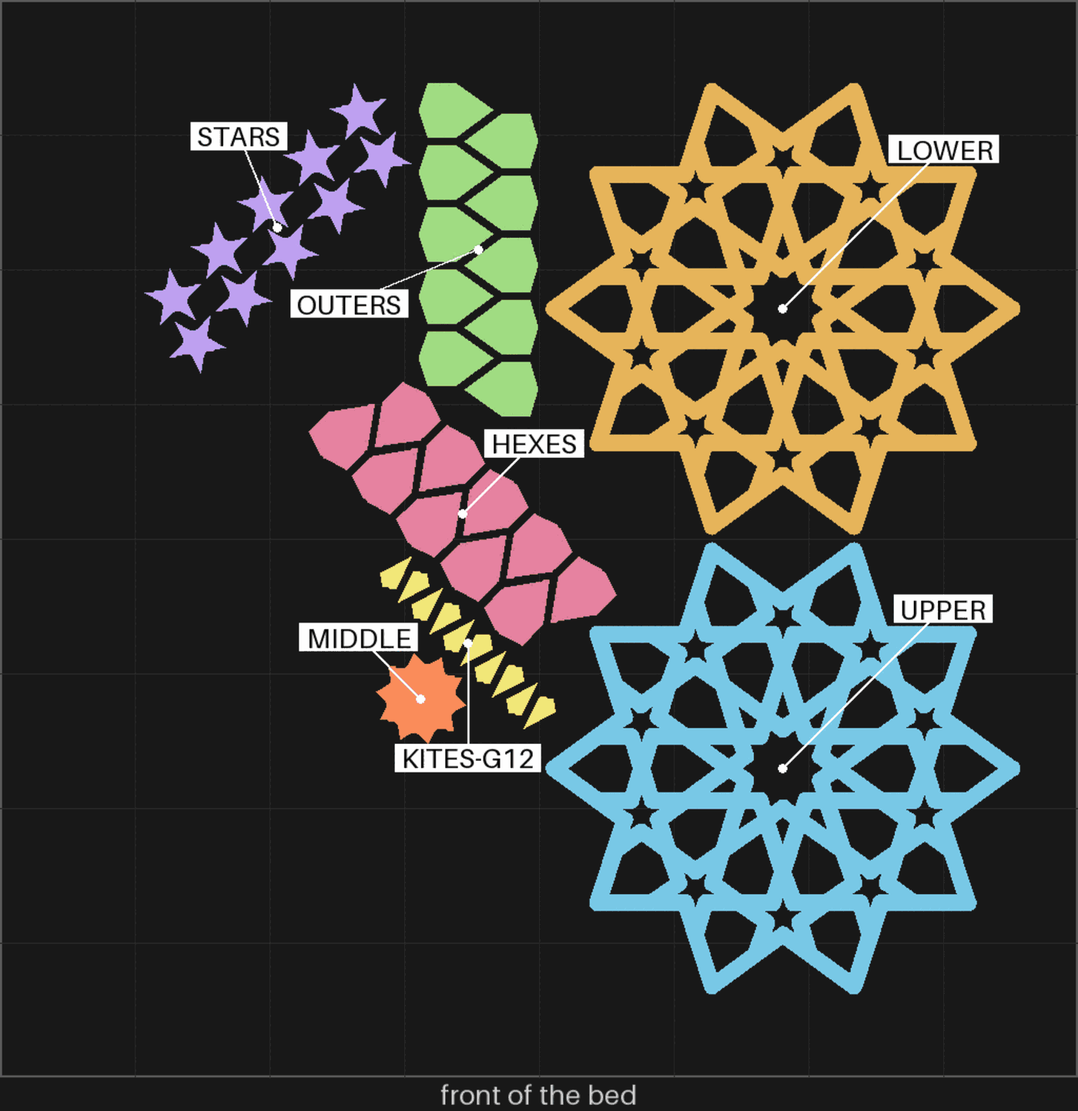
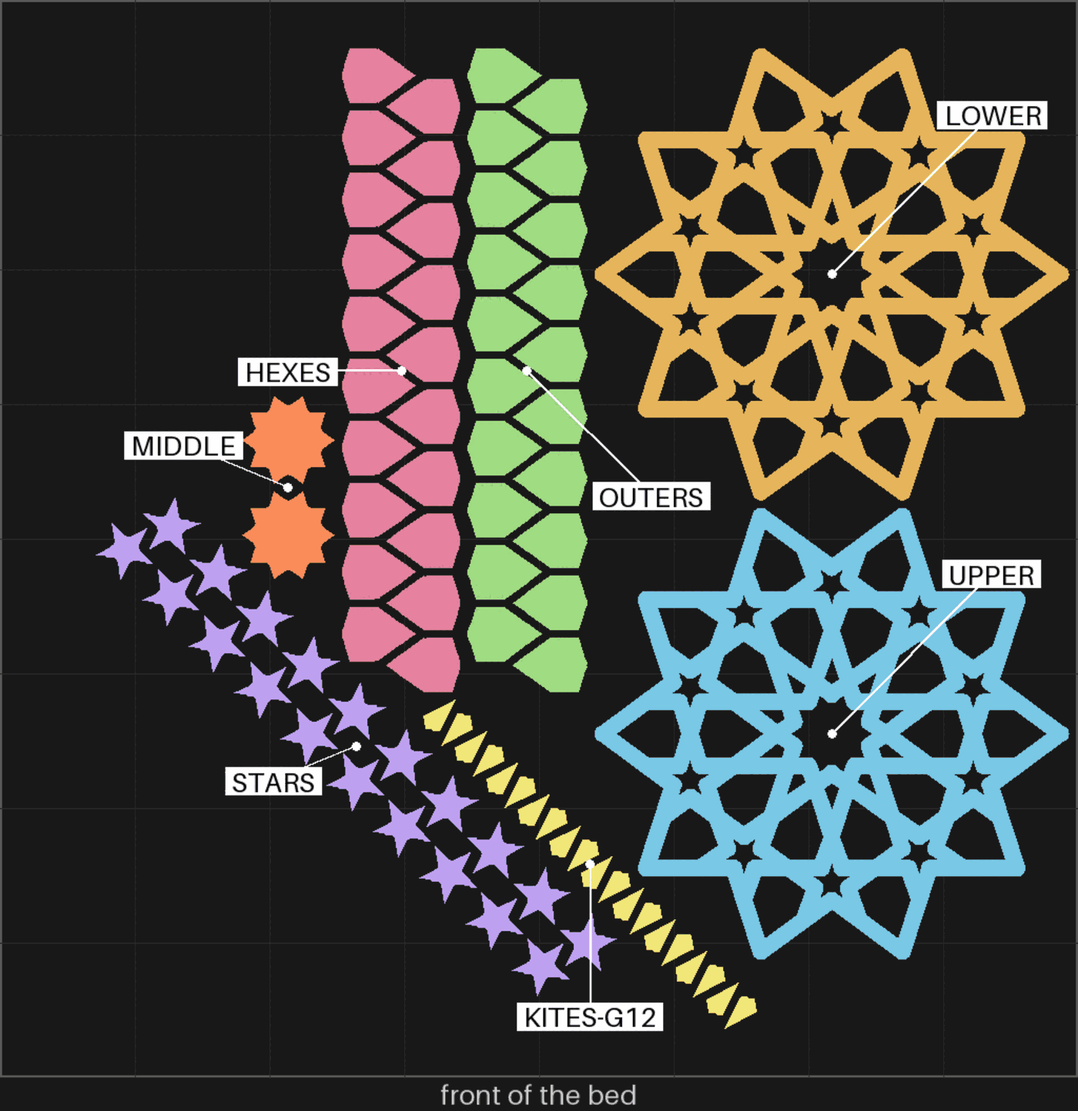
split-07: every loose piece cut in two and joined, pins and a slide (iteration 3, D-120) (#793)
Each loose piece is cut at its middle and prints as two face-down halves.
Pins join the middle, kites and stars; a 4 mm slide joins the hexagons and
outer pieces. Sliced at 8231 s and 36.49 g. The page, the bed and ledge
pictures, and the task lists follow. Waits on Omar's yes and color.

Claude-Session: https://claude.ai/code/session_01WeTHrCWsKa9pjDBJpfTez7

diff --git a/docs/design/plates/split-07.md b/docs/design/plates/split-07.md
@@ -1,19 +1,20 @@
 ---
 plate: split-07
 recipe: split-07.yaml
-iteration: 2
+iteration: 3
 stage: proposed
 times_printed: 0
 runs: []
-answers: "Does the whole flange coaster, with split-06's 40 pins where they stand and a 0.7 mm wall round each pin socket (split-06 had 0.9 mm), keep its hex and outer pieces snug, close flush all the way round and hold together, so it is a coaster to keep?"
+answers: "Cut in two at its middle and printed face down, does every loose piece of the flange coaster come out with two bed faces, join back into one piece (pins on the kite, star and middle, a slide on the hexagons and outer pieces), and still fit the coaster, which now has a 0.7 mm wall round each pin socket, snug and flush?"
 kind: new
 maturity: experiment
 bets: []
 unblocks:
+  - "D-120: cut pieces with pins and a slide, kept or changed on these pieces in hand"
   - "D-119: the flange coaster's socket wall is 0.7 mm (its reversal, if the whole coaster shakes or cracks)"
   - "the flange coaster as a production plate (D-098: one run kept as laid out)"
-minutes: 113
-grams: 31
+minutes: 137
+grams: 36
 bed_plates: 1
 risk: watch
 pictures:
@@ -22,78 +23,96 @@ pictures:
   - split-07-media/ledges.png
 ---
 
-# split-07 — the whole flange coaster with a 0.7 mm socket wall
+# split-07 — the whole flange coaster, every loose piece cut in two and joined
 
 ![The whole lower half of the flange coaster from above, grey, with its 40 pins of 1.2 mm as white squares in four rings of ten: round the middle star, between the bigger kites, between the stars, and on the outer points](split-07-media/pins.png)
 
-**In short.** On [split-08](split-08.md) you tried three walls round each pin's socket and said "the
-middle one was the best one, 1c i think" and "left ond did (1a shook)". So the 0.9 mm wall that
-[split-06](split-06.md) printed shook, and 0.7 mm was the best
+**In short.** You picked "Cut them, wait for the slide"
+([D-120](../../working-model/decisions-log.md#d-120--cut-pieces-the-cut-and-the-joins-on-one-plate)).
+So every loose piece on this plate is cut in two at its middle, and each half prints face down.
+Both faces of every piece are then bed faces, the smooth side, with no last layer on show. The
+two halves join back into one piece: with pins on the kites, stars and middle piece, and with a
+slide (a dovetail rail that slides into a slot) on the hexagons and outer pieces. The coaster
+round them is the one you picked on [split-08](split-08.md): a 0.7 mm wall round each pin socket
 ([D-119](../../working-model/decisions-log.md#d-119--the-flange-coasters-socket-wall-is-07-mm)).
-This plate is split-06 again, the whole coaster with no labels, with that wall, and one ring of pins
-moved 1.3 mm in so it no longer sits on the hex pieces' points. The plate is
-[`split-07.yaml`](split-07.yaml).
+The plate is [`split-07.yaml`](split-07.yaml).
 
 ## What it is
 
-The whole flange coaster at 112.5 mm, as split-06: a lower half, an upper half, the middle piece,
-and every kite, hex piece, star and outer piece.
+The whole flange coaster at 112.5 mm: a lower half, an upper half, and every loose piece, each
+loose piece now in two halves.
 
 | | split-06 | split-07 |
 |---|---|---|
+| Loose pieces | whole, 4.4 mm tall, one bed face | **cut in two, 2.2 mm halves, both printed face down** |
+| Joins between the halves | none | **pins on the kites, stars and middle; a slide on the hexagons and outer pieces** |
 | Wall round each pin socket | 0.9 mm | **0.7 mm** |
-| Disc round each pin (radius) | 1.625 mm | **1.425 mm** |
-| Pins | 40, 1.2 mm, 0.25 mm play, in four rings | the same, the inner ring at 13.0 mm, not 14.3 |
+| Pins between the coaster's halves | 40, 1.2 mm, 0.25 mm play, in four rings | the same, the inner ring at 13.0 mm, not 14.3 |
 | Piece gap | 0.10 mm, kites 0.12 | the same |
 | Labels | none | none |
 
-- **The pins stand where split-06's stand, but for the inner ring**: rings at 13.0, 25.1, 33.5
-  and 54.4 mm, ten in each. The inner ring was at 14.3 mm, where the disc round each pin sat on
-  the point of a hex piece. bikar refuses that for the cut pieces you picked (cut pieces with pins
-  and slides, [D-120](../../working-model/decisions-log.md)), because a point is too thin to lose
-  its ledge. At 13.0 mm the ring is clear of the points with 0.3 mm to spare.
-- **The disc still bites the hex pieces' blunt end, but nothing else.** Each hex piece's point now
-  keeps its whole 0.80 mm ledge (it kept 0.37 before the ring moved, and 0.17 on split-06). The
-  blunt end keeps 0.45 mm, as on split-08's 0.7 mm set. The recipe says the bite is by design, so
-  the send's ledge check lets it through.
+How each piece kind is joined, as the [joins design](../coaster/cut-pieces-joins-design.md#42-plate-two-the-joins)
+lays them out:
+
+| Pieces | Join | Why this one |
+|---|---|---|
+| The middle piece | three 1.2 mm pins, 0.25 mm play | its outline turns inward, so the slide will not run on it |
+| Each kite | one 1.2 mm pin, a little toward its blunt end | too narrow for a slide, and only one pin fits |
+| Each star | one 1.2 mm pin, at its middle | its arms turn inward, so no slide |
+| Each hexagon and outer piece | a 4 mm dovetail rail on one half, a slot in the other, 0.15 mm a side, 0.8 mm tall | wide and straight enough for SLD-1's rail, the slide you printed on sld-1 |
+
+![Three side views. 1: today's whole piece; its bottom face is a first layer and its top face the last layer. 2: the same piece cut at its middle into two halves. 3: both halves printed face down.](../coaster/cut-pieces-joins-media/cut-piece.png)
+
+![Two side views of the small kite: the two halves closed on a 1.2 mm pin, and both halves printed face down, the pin standing on one and the hole open on the other](../coaster/cut-pieces-joins-media/kite-pin.png)
+
+![Side views of the hexagon's slide. The first is the rail this plate uses: along the slot, the slot half printed face down, its 1.0 mm slot leaving 0.5 mm of band over air at both ends](../coaster/cut-pieces-joins-media/hex-slide.png)
+
+- **One coaster's worth, one join per piece kind.** The design's extra rows (a second pin play
+  of 0.30 mm, a lower 0.6 mm rail, the other slide gaps) are not on this bed: you picked one
+  plate, and this is the coaster as it would be kept.
+- **The pins between the coaster's halves stand where split-06's stand, but for the inner ring**:
+  rings at 13.0, 25.1, 33.5 and 54.4 mm, ten in each. At 14.3 mm the disc round each pin sat on
+  a hex piece's point, and bikar refuses to cut a piece there, because a point is too thin to
+  lose its ledge. At 13.0 mm it is clear with 0.3 mm to spare.
 - Setting 8 on every piece, room 0.2, bosses on: all as split-06.
 
 **The color is picked at the send**: say it with the yes.
 
 **What I assumed, for you to change:**
 
-- **"go" meant build this plate.** You said it after split-08's verdicts; if you meant something
-  else, say so.
-- **The pins stay where they are, but for the inner ring.** split-08 did not test moving them,
-  and 0.7 did not shake. The inner ring moved only because the cut pieces need it off the points.
-- **0.7, not 0.45.** The 0.45 set did not shake either, but you picked 0.7, and nobody checked yet
-  whether the one-line walls hold when pressed.
+- **The slide gap is 0.15 mm a side.** On sld-1 you said 0.10, 0.15 and 0.20 all worked, and
+  named none as best, so this takes the middle one. Say if one felt better.
+- **One join per piece kind, not the design's comparison rows.** If a join fails here, the next
+  plate tries the other settings on just that piece.
+- **0.7 mm socket wall, not 0.45.** The 0.45 set did not shake either, but you picked 0.7.
 - **Sliced for the gold Textured PEI plate**, the one Bambu Studio is set to. It is sliced again
   at the send if another plate is on.
 
 ## How much the wall bites
 
 Measured on the sliced plate by `.claude/skills/place-pins/scripts/ledge_check.py`: how far each
-piece's hidden ledge reaches past its face at each corner, where a whole ledge reaches 0.80 mm.
-Each piece's face is grey, its hidden ledge orange, and each corner whose ledge reaches less than
-0.55 mm is ringed blue with how far it reaches.
+half's hidden ledge reaches past its face at each corner, where a whole ledge reaches 0.80 mm.
+Each half's face is grey, its hidden ledge orange, and each corner whose ledge reaches less than
+0.55 mm is ringed blue with how far it reaches. Cutting the pieces did not change it.
 
 | Pieces | What the check found |
 |---|---|
-| The 10 hex pieces | the blunt end reaches 0.45 mm; the point and the sides the whole 0.80 |
-| The 10 outer pieces | 0.80 mm all round |
-| The stars, the kites, the middle | 0.77 to 0.80 mm all round |
+| The 20 hexagon halves | the blunt end reaches 0.45 mm; the point and the sides the whole 0.80 |
+| The 20 outer halves | 0.80 mm all round |
+| The star, kite and middle halves | 0.77 to 0.80 mm all round |
 
-The picture shows the two groups the pins sit near: the hex pieces on top, the outer pieces below.
+The picture shows three halves of each way round: hexagon halves on top, outer halves below.
 
-![Top row: the ten hex pieces, each ringed blue at its blunt end (0.45) only, the point's ledge whole. Bottom row: the ten outer pieces with an even orange ledge all round and no rings](split-07-media/ledges.png)
+![Top row: hexagon halves, each ringed blue at its blunt end (0.45) only, the point's ledge whole. Bottom row: outer halves with an even orange ledge all round and no rings](split-07-media/ledges.png)
 
 ## Why print it
 
-split-08 showed the 0.7 mm wall on one slice. Only the whole coaster shows whether forty sockets
-that thin, all at once, close flush, hold and keep every hex piece still. If it does, it can become
-the production plate. If it shakes or a wall cracks, D-119 is reversed: 0.45 mm if its sockets
-prove to hold, or the pins move off the points.
+Every face a customer sees today is half bed face, half last layer, and the last layer is the
+rougher one. Cutting the pieces makes both faces bed faces, but only if the halves join back
+flush and stay together. The pins have printed before (between the coaster's halves on split-06 and split-08) and so
+has the slide (sld-1, on test hexagons), but neither on a piece this small, and never inside this
+coaster. One print answers all of it on the coaster we would sell. If it holds, this is the
+production layout. If a join fails, the next plate tries that piece's other settings.
 
 ## After the print
 
@@ -102,33 +121,37 @@ the answer does not cover them.
 
 | Pieces | The question | What we expect, and why | What each answer changes |
 |---|---|---|---|
-| The whole coaster, put together | **Do:** Put every piece in the lower half, close the upper half on its pins and pinch it all the way round, then shake it. **Look for:** Is it a coaster you would keep as it is? If not, what is wrong? | Flush round the outside, no shake: split-08's 0.7 mm set did not shake. | Keep: it becomes the production plate. Not kept: what is wrong decides the next change. |
-| The hex and outer pieces | **Do:** Push each hex piece and each outer piece side to side with a fingertip in the closed coaster. **Look for:** Snug, or do some wiggle? Which ones? | Snug: the hex points keep their whole ledge now, and the outer pieces theirs. | Snug: 0.7 mm stays. The hex pieces wiggle: try 0.45 mm, or move the pins off the points. |
-| The bigger kites | **Do:** Lay two bigger kites side by side, and look at each against its neighbours in the closed coaster. **Look for:** Do they match? If one is lopsided, which side? | They match: as drawn the pieces are mirror-symmetric. | Match: nothing to change. Lopsided: a photo with the side marked, to find where the print differs from the drawing. |
-| The sockets, pressed | **Do:** Press hard over each ring of pins, then pull the halves apart. **Look for:** Does each pin stay in its socket and the halves stay shut? | All hold, as on split-08's 0.7 mm set. | All hold: 0.7 mm stays. A socket lets go: the wall is too thin there. |
-| Round each socket | **Do:** Look at the wall round each socket on the upper half, before and after pressing, against the light. **Look for:** Any split, crack or broken wall? | Whole: 0.7 mm is nearly two lines. | Whole: 0.7 mm stands. Cracked: back to 0.9 at those rings, or move the pins. |
-| Closing it | **Do:** Close the upper half on the lower and press it down. **Look for:** Does it go on with an even press? | An even press: the pins and play are split-06's. | Even: nothing to do. Hard to close: loosen the play to 0.30. |
-| The kites | **Do:** Push each kite side to side with a fingertip. **Look for:** Snug, tight or wiggling? | Snug. | Snug: 0.12 stays. Tight: 0.13. Wiggles: 0.11. |
+| The whole coaster, put together | **Do:** Join each pair of halves, put every piece in the lower half, close the upper half on its pins and pinch it all the way round, then shake it. **Look for:** Is it a coaster you would keep as it is? If not, what is wrong? | Flush round the outside, no shake: each join holds its pair as one piece, and split-08's 0.7 mm set did not shake. | Keep: it becomes the production plate. Not kept: what is wrong decides the next change. |
+| Every piece, both faces | **Do:** Turn a joined hexagon, star and kite over in the light. **Look for:** Do both faces look the same, smooth like the bottom of split-06's pieces? Any seam or step round the edge? | Both smooth: each half's face printed on the bed. A thin line at the cut is likely, no step. | Same: cut pieces stay. A step or a rough face: a photo, and the cut moves or the halves change. |
+| The kites, stars and middle (pins) | **Do:** Press each pair together, hold it by one half and shake it. **Look for:** Does it go together by hand, and does the other half stay on? Did any pin break? | Joins by hand and stays on: 0.25 mm play holds the coaster's own halves on split-06 and split-08. | Holds: 0.25 stays. Too tight to close or a pin snaps: 0.30 on that piece. Falls apart: a tighter play, or a second pin where one fits. |
+| The hexagons and outer pieces (slide) | **Do:** Slide each rail into its slot from the side, then shake the pair. Look at the slot's ends on the upper half first. **Look for:** Does it slide in without a tool and stay on? Has a slot end sagged or closed up? | Slides in and holds, as on sld-1 at 0.15. Each slot end has 0.5 mm of band printed over air, so a small droop there is the likeliest fault. | Holds: the slide stays. Sticks at an end: the lower 0.6 mm rail. Loose: 0.10. Comes apart: pins on these too. |
+| The joined pieces in the coaster | **Do:** Push each joined piece side to side with a fingertip in the closed coaster. **Look for:** Snug, or do some wiggle? Which ones? | Snug, the same as a whole piece would be: the cut changes nothing round the outside. | Snug: nothing to change. Tighter or looser than split-06's: the halves are not sitting flat, a photo of the edge. |
+| The bigger kites | **Do:** Lay two joined bigger kites side by side, and look at each against its neighbours in the closed coaster. **Look for:** Do they match? If one is lopsided, which side? | They match: as drawn the pieces are mirror-symmetric. | Match: nothing to change. Lopsided: a photo with the side marked, to find where the print differs from the drawing. |
+| The sockets, pressed | **Do:** Press hard over each ring of pins, then pull the coaster's halves apart. **Look for:** Does each pin stay in its socket and the halves stay shut? Any crack in a socket wall? | All hold and no cracks, as on split-08's 0.7 mm set. | All hold: 0.7 mm stays. A socket lets go or cracks: back to 0.9 at that ring, or move the pins. |
+| The kites | **Do:** Push each joined kite side to side with a fingertip. **Look for:** Snug, tight or wiggling? | Snug. | Snug: 0.12 stays. Tight: 0.13. Wiggles: 0.11. |
 
 ## Pictures
 
-Where the pins stand on the whole lower half, from above, at the top of this page. Drawn from the
-coaster file at the plate's settings by `tools/print_review.py pins`.
+Where the coaster's pins stand on the whole lower half, from above, at the top of this page. Drawn
+from the coaster file at the plate's settings by `tools/print_review.py pins`. The side views of
+the cut, the pin and the slide come from the [joins design](../coaster/cut-pieces-joins-design.md).
 
-The bed, from above, as the slice lays it out, each piece named. Drawn from the sliced plate by
-`tools/print_review.py bed`.
+The bed, from above, as the slice lays it out, each group named: two of every loose piece now,
+one per half. Drawn from the sliced plate by `tools/print_review.py bed`.
 
-![split-07 on the bed from above: the lower and upper halves of the whole coaster and every loose piece, each named](split-07-media/bed.png)
+![split-07 on the bed from above: the lower and upper halves of the whole coaster, and two halves of every loose piece: 20 hexagon halves, 20 outer halves, 20 stars, 20 kites and the two middle halves, each group named](split-07-media/bed.png)
 
 ## Cost and risk
 
-**About 113 minutes and 31 g of PLA** (the slicer's estimate, 6801 s and 31.44 g), one bed, no
-prime tower, one color.
+**About 137 minutes and 36 g of PLA** (the slicer's estimate, 8231 s and 36.49 g), one bed, no
+prime tower, one color. That is 24 minutes and 5 g more than the whole pieces, for twice as many
+small parts.
 
-**Risk: watch.** As on split-06: each band sticks out 0.8 mm with nothing under it and may droop,
-a look to judge. The kites and stars are small loose pieces that can lift or get knocked. The pins
-are 1.2 mm and stand on the lower half's cut face, so a pin that prints badly breaks off as a look,
-not a danger to the printer. New: forty sockets with a 0.7 mm wall, which only one slice has tried.
+**Risk: watch.** Twice as many small loose parts as split-06: 82 halves, each 2.2 mm tall, which
+can lift or get knocked. The slots' ends print 0.5 mm of band over air and may droop, a look to
+judge. The pins are 1.2 mm and stand on cut faces, so a pin that prints badly breaks off as a
+look, not a danger to the printer. Forty sockets with a 0.7 mm wall, which only one slice has
+tried.
 
 ## Your call
 
@@ -152,3 +175,5 @@ Every yes or hold Omar gives this plate, one row each, oldest first (D-096). A t
 | 2026-10-25 | sliced — for the gold Textured PEI plate, 7 objects, no slicer warnings: 6987 s and 31.45 g | this page |
 | 2026-10-25 | changed (iteration 2): the inner ring of pins moved from 14.3 to 13.0 mm, off the hex pieces' points, so the cut pieces (D-120) can be built to fit this coaster; the yes not yet given, so none to reset | [`split-07.yaml`](split-07.yaml) |
 | 2026-10-25 | sliced — for the gold Textured PEI plate, 7 objects, no slicer warnings: 6801 s and 31.44 g; the hex points' ledges whole, the blunt end 0.45 mm | this page |
+| 2026-10-25 | changed (iteration 3): every loose piece cut in two and joined, pins on the kites, stars and middle, a slide on the hexagons and outer pieces (D-120, Omar: "Cut them, wait for the slide"); the yes not yet given, so none to reset | [`split-07.yaml`](split-07.yaml) |
+| 2026-10-25 | sliced — for the gold Textured PEI plate, 7 objects, 82 loose halves, no slicer warnings: 8231 s and 36.49 g; the ledges as before, the hexagons' blunt end 0.45 mm | this page |

diff --git a/docs/tasks/coaster-pipeline/backlog.md b/docs/tasks/coaster-pipeline/backlog.md
@@ -11,31 +11,19 @@ covers settled (P4.3), and the standard-size plate (P5.2) built from the measure
 Split coasters and split pieces are the main goal since 2026-10-06 (Omar: "i want to wrap up
 consturciotn and move back to split coasters and split inflills"), so they come first.
 
-1. **Cut pieces: the cut and the joins on one plate** (D-120). Cut each loose piece of the flange
-   coaster in two so both faces print on the bed, as the
-   [cut-pieces design](../../design/coaster/cut-pieces-joins-design.md) lays out. bikar first, all
-   three steps of its §5: (a) a knob on `hold flange` that cuts each loose piece in two and turns
-   the upper half over; (b) pins on a half, refusing any pin or disc on a piece's point; (c) a slide
-   on a half, with the hexagons' notches handled and a slot refused if it leaves under 0.5 mm of
-   band. Then one plate with the cut pairs (no join, at split-06's gaps and 0.02 mm looser) beside
-   the joined pairs, and its page. Omar's pick, 2026-10-25. Steps (a) and (b) merged (bikar #346,
-   #347); split-07's inner pin ring moved from 14.3 to 13.0 mm so the pins clear the hex points.
-   split-07 is that plate: it waits for step (c), then its loose pieces are cut and joined
-   (Omar, 2026-10-25, on split-07's bed picture: "outers, hexes, middle, kites all not split",
-   then "Cut them, wait for the slide"). Its yes and color come after.
-2. **The bigger kites print lopsided.** Omar, 2026-10-25, on split-08's pieces: "but the bigger
+1. **The bigger kites print lopsided.** Omar, 2026-10-25, on split-08's pieces: "but the bigger
    kites are still not eymetric". As drawn they are mirror-symmetric, so the difference comes in the
    slice or the print. Needs a photo with the lopsided side marked (split-07's page asks for it),
    then a look at the sliced walls of one bigger kite (`tools/fit_gap.py walls`) against the drawing.
-3. **Turn a finished print into data** — waits on Omar printing minis-01, or a
+2. **Turn a finished print into data** — waits on Omar printing minis-01, or a
    `bambu print capture` showing up. Then follow the `print-model` skill's compare loop:
    record in `docs/prints/<date>-minis-01/`, settle the CAL-CST bets it measures, update the
    counts in §1 of the register below. Record what was measured, not what was
    expected. (P4.3. minis-01's first print left no answer, 3d-models #629.)
-4. **Keep [minis-01](../../design/plates/minis-01.yaml) ready to send.** Re-compose after any coaster
+3. **Keep [minis-01](../../design/plates/minis-01.yaml) ready to send.** Re-compose after any coaster
    change; slice, preflight and filament-sync against the live AMS trays; check each item's
    bikar pin against bikar main. Stops at the send.
-5. **Tooling that blocks this plate** — fix only friction that stops minis-01. General tooling
+4. **Tooling that blocks this plate** — fix only friction that stops minis-01. General tooling
    goes in the [print-infrastructure backlog](../print-infrastructure/backlog.md), new designs
    in the [catalog backlog](../catalog-expansion/backlog.md).
    - **Check the send payload against one Bambu Studio send.** `bed_type`, `md5`, and the tray
@@ -44,7 +32,7 @@ consturciotn and move back to split coasters and split inflills"), so they come 
      printer config on this machine (`bambu setup doctor` says it is missing) and one send from
      Studio while the request topic is read. Until then, plates go out from Bambu Studio.
      Found by the minis-01 run, 2026-09-25.
-6. **Standard-size plate (P5.2)** — only after item 3 settles the CAL-CST numbers (board #6).
+5. **Standard-size plate (P5.2)** — only after item 2 settles the CAL-CST numbers (board #6).
 
 ## Owner-gated
 
@@ -73,11 +61,11 @@ Sending a print and which filament to load.
   2026-10-15 and was judged and recorded on 2026-10-22 (3d-models #748–#751). split-01 (one bed, 89
   minutes and 30 g) waits on Omar's tick, with the color in the yes. Whether the halves are glued
   is still the split design's call 3.
-- **Send [split-07](../../design/plates/split-07.md), the whole flange coaster with a 0.7 mm
-  socket wall** — split-06 again with the wall Omar picked on split-08 (D-119). One bed, about
-  113 minutes and 31 g. Built 2026-10-25 after split-08's verdicts and his "go". It now waits
-  for the slide (item 1, step c): then its loose pieces are cut and joined, and Omar's yes, with
-  the color in it, comes after.
+- **Send [split-07](../../design/plates/split-07.md), the whole flange coaster with every loose
+  piece cut in two and joined** — split-06 again with the 0.7 mm wall Omar picked on split-08
+  (D-119), and each loose piece cut at its middle and printed as two face-down halves: pins on the
+  middle, kites and stars, a slide on the hexagons and outer pieces (D-120). One bed, about 137
+  minutes and 36 g. Rebuilt 2026-10-25. Waits on Omar's yes, with the color in it.
 - **Cut the pieces too, so every face is a first layer** — waiting on Omar's two answers in the
   [finish techniques brainstorm](../../design/printing/finish-techniques-brainstorm.md#5-open-for-omar):
   which plate the glacier plate is, and whether to start with way a (each piece cut at the

diff --git a/docs/design/plates/README.md b/docs/design/plates/README.md
@@ -29,12 +29,12 @@ Written by `python3 .claude/gates/plates_gate.py --write` from the plate pages a
 | 7 | [theme-iznik-tile-10604](theme-iznik-tile-10604.md) | waiting | 1 | 0.3 | 3.42 | ok | Iznik tile, one of its 4 plates: do its Hex ×10 come out as the theme draws them, in PLA Basic Cobalt Blue (10604)? |
 | 8 | [theme-terracotta-souk-11401](theme-terracotta-souk-11401.md) | waiting | 1 | 0.3 | 3.39 | ok | Terracotta souk, one of its 4 plates: do its Outer ×10 come out as the theme draws them, in PLA Matte Desert Tan (11401)? |
 | 9 | [split-01](split-01.md) | waiting | 6 | 1.8 | 3.36 | watch | Does a split gBV coaster close over its loose pieces and hold them by a lip on each face, with the pieces dropped in at a loose gap and the halves lined up by studs? |
-| 10 | [theme-iznik-tile-10605](theme-iznik-tile-10605.md) | waiting | 1 | 0.3 | 2.87 | ok | Iznik tile, one of its 4 plates: do its Kite ×10, Outer ×10 come out as the theme draws them, in PLA Basic Turquoise (10605)? |
-| 11 | [theme-terracotta-souk-11203](theme-terracotta-souk-11203.md) | waiting | 1 | 0.4 | 2.84 | ok | Terracotta souk, one of its 4 plates: do its Kite ×10, Hex ×10 come out as the theme draws them, in PLA Matte Terracotta (11203)? |
-| 12 | [swatch-10204](swatch-10204.md) | waiting | 1 | 0.4 | 2.82 | ok | What does PLA Basic Hot Pink (10204) really look like printed: its top, its sheen and its bed face, on a chip and on our own straps? |
-| 13 | [swatch-10501](swatch-10501.md) | waiting | 1 | 0.4 | 2.82 | ok | What does PLA Basic Bambu Green (10501) really look like printed: its top, its sheen and its bed face, on a chip and on our own straps? |
-| 14 | [swatch-10101](swatch-10101.md) | waiting | 1 | 0.4 | 2.82 | ok | What does PLA Basic Black (10101) really look like printed: its top, its sheen and its bed face, on a chip and on our own straps? |
-| 15 | [split-07](split-07.md) | proposed | 6 | 2.2 | 2.74 | watch | Does the whole flange coaster, with split-06's 40 pins where they stand and a 0.7 mm wall round each pin socket (split-06 had 0.9 mm), keep its hex and outer pieces snug, close flush all the way round and hold together, so it is a coaster to keep? |
+| 10 | [split-07](split-07.md) | proposed | 8 | 2.6 | 3.03 | watch | Cut in two at its middle and printed face down, does every loose piece of the flange coaster come out with two bed faces, join back into one piece (pins on the kite, star and middle, a slide on the hexagons and outer pieces), and still fit the coaster, which now has a 0.7 mm wall round each pin socket, snug and flush? |
+| 11 | [theme-iznik-tile-10605](theme-iznik-tile-10605.md) | waiting | 1 | 0.3 | 2.87 | ok | Iznik tile, one of its 4 plates: do its Kite ×10, Outer ×10 come out as the theme draws them, in PLA Basic Turquoise (10605)? |
+| 12 | [theme-terracotta-souk-11203](theme-terracotta-souk-11203.md) | waiting | 1 | 0.4 | 2.84 | ok | Terracotta souk, one of its 4 plates: do its Kite ×10, Hex ×10 come out as the theme draws them, in PLA Matte Terracotta (11203)? |
+| 13 | [swatch-10204](swatch-10204.md) | waiting | 1 | 0.4 | 2.82 | ok | What does PLA Basic Hot Pink (10204) really look like printed: its top, its sheen and its bed face, on a chip and on our own straps? |
+| 14 | [swatch-10501](swatch-10501.md) | waiting | 1 | 0.4 | 2.82 | ok | What does PLA Basic Bambu Green (10501) really look like printed: its top, its sheen and its bed face, on a chip and on our own straps? |
+| 15 | [swatch-10101](swatch-10101.md) | waiting | 1 | 0.4 | 2.82 | ok | What does PLA Basic Black (10101) really look like printed: its top, its sheen and its bed face, on a chip and on our own straps? |
 | 16 | [swatch-13903](swatch-13903.md) | waiting | 1 | 0.4 | 2.68 | ok | What does PLA Silk Neon City (13903) really look like printed: its top, its sheen and its bed face, on a chip and on our own straps? |
 | 17 | [sheets-01](sheets-01.md) | waiting | 6 | 2.3 | 2.65 | ok | Do the 0.4 mm steps on today's coaster edges show in the hand, and which top (round 1 or the full dome) looks right? |
 | 18 | [minis-06](minis-06.md) | waiting | 8 | 3.8 | 2.11 | ok | How thin can the dovetail band go, and does the new slot fix minis-04's tight pegs? |

diff --git a/docs/tasks/coaster-pipeline/done.md b/docs/tasks/coaster-pipeline/done.md
@@ -2,6 +2,7 @@
 
 Newest first: date, what shipped, PR. Backlog: [`backlog.md`](backlog.md).
 
+- 2026-10-25 — Cut pieces, the third step: bikar's slide on a half, in the cookbook and the design (bikar #348, 3d-models #792); split-07 rebuilt as the cut-pieces plate, every loose piece cut in two and joined by pins or a slide, sliced at about 137 minutes and 36 g (3d-models #793)
 - 2026-10-25 — Cut pieces, first two of three steps: the design for cutting each loose piece in two so both faces print on the bed (D-120), then bikar's cut and pins on a half, each in the cookbook and the design doc (3d-models #775, #788, #789; bikar #346, #347)
 - 2026-10-25 — split-07, the whole flange coaster with a 0.7 mm socket wall, proposed and sliced; iteration 2 moved the inner ring of pins to 13.0 mm, off the hex pieces' points. It now waits for the slide, to be rebuilt as the cut-pieces plate (3d-models #787, #790)
 - 2026-10-25 — split-08, three socket walls on one slice: built, approved, sent, watched and judged. Omar picked 0.7 mm, and 0.9 mm shook (D-118, D-119) (3d-models #781, #783, #784, #785, #786)

diff --git a/docs/design/coaster/cut-pieces-joins-design.md b/docs/design/coaster/cut-pieces-joins-design.md
@@ -280,7 +280,9 @@ pairs are tried in a flange coaster Omar has in hand: split-06's, or split-07's 
    108° has not been seen, and on one the line would need looking at again. split-07 as it printed still builds whole but is refused with halves on, because one
    of its studs bites a point. So cut pieces that fit split-07 as printed cannot be built: the
    plate needs a coaster whose studs sit off the points (the place-pins skill), which also means
-   printing that coaster.
+   printing that coaster. Done on paper 2026-10-25: split-07's iteration 2 moved its inner ring
+   from 14.3 to 13.0 mm, off the points, and its iteration 3 builds every piece cut, with the
+   joins of §4.2's first column ([split-07](../plates/split-07.md)).
 3. **A slide on a piece half.** Reuse the dovetail kernel's layer widths on a half's cut face.
    Either run the rail on the face's outline, or allow the hexagons' notches; keep the refusal for
    an outline that turns inward and say which piece it refused. Refuse a slot that leaves under
